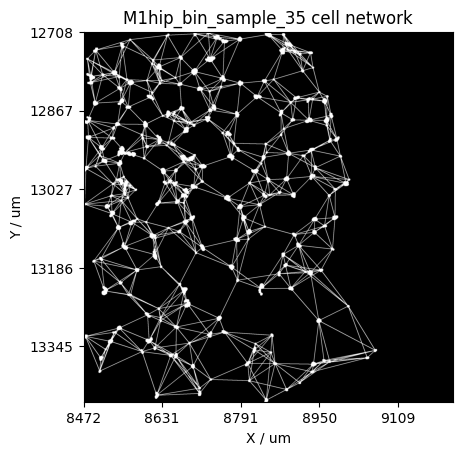
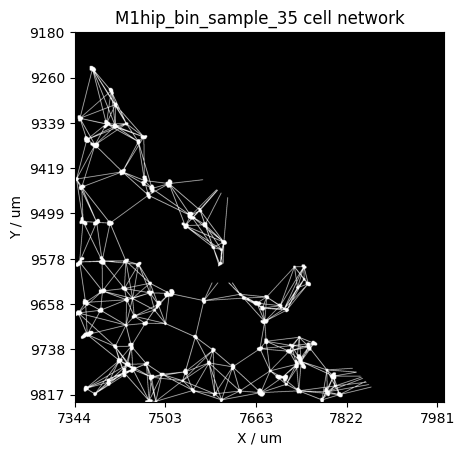
updates & stats

Changed region(s): [[0.0605, 0.0, 0.9071, 0.9846], [0.8164, 0.0615, 0.9978, 0.9538], [0.7257, 0.6462, 0.7559, 0.6769]]

diff --git a/clustering_analysis.py b/clustering_analysis.py
@@ -64,12 +64,9 @@ def run_paired_statistics(target_directory, metrics=None, min_windows=3):
 
     if metrics is None:
         metrics = [
-            'hole_density', 'hole_coverage', 'hole_area',
-            'mean_hole_area', 'std_hole_area',
-            'cell_density', 'adjusted_cell_density',
-            'fraction_high_density_tissue', 'fraction_low_density_tissue',
-            'adjusted_fraction_high_density_tissue', 'adjusted_fraction_low_density_tissue',
-            'tissue_area', 'filled_area', 'high_density_area', 'low_density_area'
+            'mean_hole_area', 'std_hole_area', 'cell_density',
+            'frac_high_density_tissue', 'frac_low_density_tissue', 
+            'frac_gap_tissue', 'ratio_high_low'
         ]
 
     # --------------------------------------------------------
@@ -83,12 +80,15 @@ def run_paired_statistics(target_directory, metrics=None, min_windows=3):
             continue
 
         df = pd.read_csv(file.path)
-        df['fraction_high_density_tissue'] = df['high_density_area']/df['filled_area']
-        df['fraction_low_density_tissue'] = df['low_density_area']/df['filled_area']
-        df['adjusted_fraction_high_density_tissue'] = df['high_density_area']/(df['filled_area'])
-        df['adjusted_fraction_low_density_tissue'] = df['low_density_area']/(df['filled_area'])
-        df['tissue_area'] = df['fraction_high_density_tissue'] + df['fraction_low_density_tissue'] + df['hole_area']
-        df['adjusted_cell_density'] = df['n_cells']/(df['tissue_area']-df['hole_area'])
+
+        df['tissue_area'] = df['high_density_area'] + df['low_density_area'] + df['hole_area']
+        df['frac_high_density_tissue'] = df['high_density_area']/df['tissue_area']
+        df['frac_low_density_tissue'] = df['low_density_area']/df['tissue_area']
+        df['frac_gap_tissue'] = df['hole_area']/df['tissue_area']
+        # df['adjusted_fraction_high_density_tissue'] = df['high_density_area']/(df['filled_area'])
+        # df['adjusted_fraction_low_density_tissue'] = df['low_density_area']/(df['filled_area'])
+        
+        # df['adjusted_cell_density'] = df['n_cells']/(df['tissue_area']-df['hole_area'])
 
         if len(df) < min_windows:
             print(f"  [WARN] {file.name}: only {len(df)} windows — skipping (min={min_windows})")
@@ -227,7 +227,7 @@ def run_paired_statistics(target_directory, metrics=None, min_windows=3):
         )
 
     print(f"{'='*70}")
-    print("Significance: * p<0.05   ** p<0.01   *** p<0.001   ns = not significant")
+    print("Significance: * p<0.05   ** p<0.01   *** p<0.001   ns = not significant under this test")
     print("Note: Shapiro-Wilk has low power at small n — consider Wilcoxon as default.\n")
 
     return results_df

diff --git a/2way_anova.py b/2way_anova.py
@@ -1,7 +1,10 @@
 import numpy as np 
 import pandas as pd
 import statsmodels.api as sm
+import statsmodels.formula.api as smf
+
 from statsmodels.formula.api import ols
+from scipy.stats import f_oneway
 
 from utils import Folder
 
@@ -64,16 +67,50 @@ from utils import Folder
 # print("Hole coverage ANOVA results dilated 10x")
 # print(anova_result2) # If eta_sq << 1, not much difference explained. Go for 0.1+.
 
-def aggregate_and_analyse_resampling_files(target_directory):
+def aggregate_and_analyse_resampling_files(target_directory, dependent):
     target_directory = Folder(target_directory)
     df_list = []
     for file in target_directory.files:
-        if file.type == 'csv' and 'resampled_analysed' in file.name and not 'dilate' in file.name:
+        if file.type == 'csv':
             df = file.read()
-            df['source'] = file.name
-            df['bone_type'] = df['source'].apply('Not a function yet')
+            df['mouse'] = df['name'].apply(lambda name: name[0:2])
+            df['bone'] = df['name'].apply(lambda name: name.split('_')[0][2:])
             df_list.append(df.copy())
+            # df_list.append(pd.DataFrame([{'mouse': df['mouse'].iloc[0], 'bone': df['bone'].iloc[0], dependent: (df[dependent]*df['filled_area']).sum()/df['filled_area'].sum()}]))
     final_df = pd.concat(df_list)
-    final_df.to_csv(target_directory + '2way_anova.csv')
+    aggregated = final_df.groupby(['mouse', 'bone']).apply(
+        lambda g: pd.Series({
+            dependent: (g[dependent] * g['filled_area']).sum() / g['filled_area'].sum(),
+            'n_windows': len(g)
+        })
+    ).reset_index()
 
-aggregate_and_analyse_resampling_files('mask tif files from Clara')
+
+    final_df['image_id'] = final_df['mouse'] + '_' + final_df['bone']
+
+
+
+    lmm = smf.mixedlm(
+        f'{dependent} ~ C(bone)',
+        data=final_df,
+        groups=final_df['image_id'],
+    )
+    result = lmm.fit()
+    print('Results: fitted parameters')
+    print(result.params)
+    print('')
+
+    print('Results: confidence intervals')
+    print(result.conf_int())
+    print('')
+
+    # Direction of hip vs femur per mouse
+    print('Percentage differences per mouse:')
+    for mouse in ['M1','M2','M3','M4','M5']:
+        sub = aggregated[aggregated['mouse'] == mouse]
+        hip   = sub[sub['bone'] == 'hip'][dependent].values[0]
+        femur = sub[sub['bone'] == 'femur'][dependent].values[0]
+        direction = 'hip > femur' if hip > femur else 'femur > hip'
+        print(f"{mouse}: {direction} ({abs(hip-femur)/femur*100:.1f}% difference)")
+
+aggregate_and_analyse_resampling_files('data', 'cell_density')

diff --git a/dark_spots.py b/dark_spots.py
@@ -1516,7 +1516,7 @@ if __name__ == '__main__':
     target_directory = Folder('binaries')
     tile_size_lookup = {
         'M1femur_bin.tif': 1400,
-        'M1hip_bin.tif': 750,
+        'M1hip_bin.tif': 650, # eroded this 1 step and lowered window size - only 3 windows went through successfully before and density was estimated high, using a lot of background
         'M2femur_bin.tif': 1600,
         'M2hip_bin.tif': 700,
         'M3femur_bin.tif': 1650,
@@ -1526,7 +1526,7 @@ if __name__ == '__main__':
         'M5femur_bin.tif': 1350,
         'M5hip_bin.tif': 800,
     }
-    specific_files = tile_size_lookup.keys()
+    specific_files = ['M1hip_bin.tif'] #tile_size_lookup.keys()
     hold_list = []
     for file in target_directory.files:
         if file.type == 'tif':
